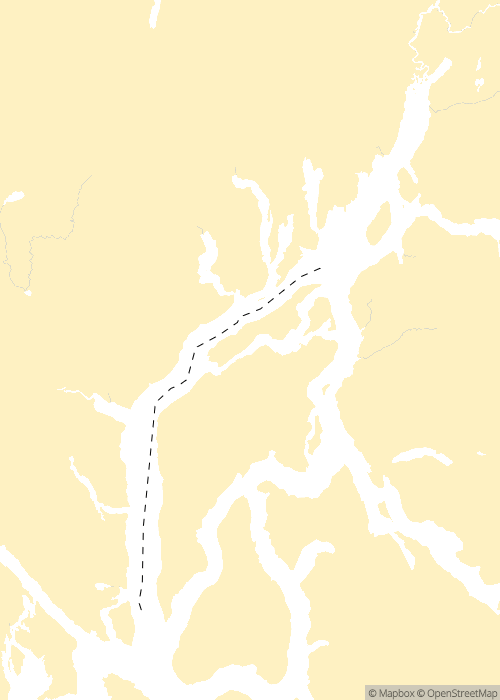
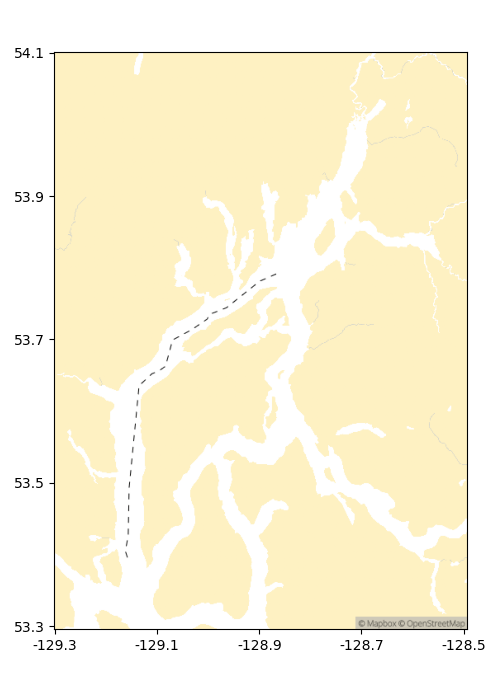
add lat/lon labels to new maps

diff --git a/index.html b/index.html
@@ -178,7 +178,7 @@ layout: default
 		{% if inlet.legacy %}
 		<img src="figures/{{ inlet.id }}-map.gif" loading="lazy">
 		{% else %}
-		<img src="figures/{{ inlet.id }}-map.png" class="map" loading="lazy">
+		<img src="figures/{{ inlet.id }}-map.png" loading="lazy">
 		<img src="figures/{{ inlet.id }}-section.png" loading="lazy">
 		{% endif %}
 		{% if inlet.runoff %}

diff --git a/get-maps.py b/get-maps.py
@@ -4,16 +4,22 @@ import json
 import os
 import requests
 
+import matplotlib.pyplot as plt
+
 params = {
     "logo": "false",
     "access_token": "pk.eyJ1IjoiY3lib3Jnc3BoaW54IiwiYSI6ImNsMDJweTU5MTAxemozY3F4N3psem44Mm8ifQ.BCyXz0gxpY2MhF42Om1cjQ",
 }
 
 maps = [
-    ("-129,53.7,8.5", "500x700", "Douglas Channel")
+    #([-123.7, 48.4, -123.2, 48.8], "500x700", "Saanich Inlet"),
+    ([-129.3, 53.3, -128.5, 54.1], "500x700", "Douglas Channel"),
 ]
 
 mapbox_url = "https://api.mapbox.com/styles/v1/cyborgsphinx/{}/static/{}/{}"
+
+def file_name(name):
+    return os.path.join("figures", name.lower().replace(" ", "-") + "-map.png")
 
 def get_map(style, position, dimensions, name, extra_style=False):
     payload = params
@@ -23,18 +29,53 @@ def get_map(style, position, dimensions, name, extra_style=False):
     url = mapbox_url.format(style, position, dimensions)
     response = requests.get(url, stream=True, params=payload)
     if response.status_code == 200:
-        filename = os.path.join("figures", name.lower().replace(" ", "-") + "-map.png")
+        filename = file_name(name)
         with open(filename, "wb") as f:
             for chunk in response:
                 f.write(chunk)
     else:
         print("Could not get map for {}: {} {}".format(name, response.status_code, response.text))
 
+def scale(min_val, max_val):
+    return 1 if max_val - min_val < 6 else 2
+
+def locations(min_val, max_val, length):
+    stride = length // int(max_val - min_val)
+    return [n for n in range(0, length + 1, stride * scale(min_val, max_val))]
+
+def labels(min_val, max_val):
+    return [n/10 for n in range(min_val, max_val + 1, scale(min_val, max_val))]
+
+def add_axes(name, position, dimensions):
+    x_len, y_len = dimensions.split("x")
+    filename = file_name(name)
+    with open(filename, "rb") as f:
+        image = plt.imread(f)
+
+    fig, ax = plt.subplots()
+    ax.imshow(image)
+    x_min, x_max = int(position[0] * 10), int(position[2] * 10)
+    y_min, y_max = int(position[1] * 10), int(position[3] * 10)
+    ax.set_xticks(
+        locations(x_min, x_max, int(x_len)),
+        labels(x_min, x_max),
+    )
+    ax.set_yticks(
+        locations(y_min, y_max, int(y_len)),
+        reversed(labels(y_min, y_max)),
+    )
+
+    dpi = fig.get_dpi()
+    fig.set_size_inches(int(x_len) / dpi, int(y_len) / dpi)
+    plt.tight_layout()
+    plt.savefig(filename)
+
 def main():
     get_map("cl0cpnth0000d15rujrameamv", "-126,51.4,5.7", "900x700", "all inlets")
 
     for mapbox in maps:
         get_map("cl1gtkgu6002i14rt1l9kxo5w", mapbox[0], mapbox[1], mapbox[2], True)
+        add_axes(mapbox[2], mapbox[0], mapbox[1])
 
 if __name__ == "__main__":
     main()
